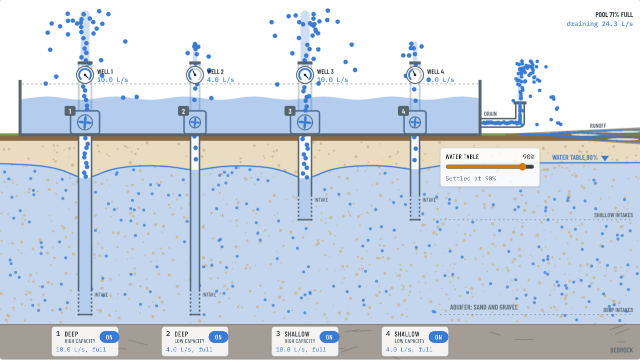
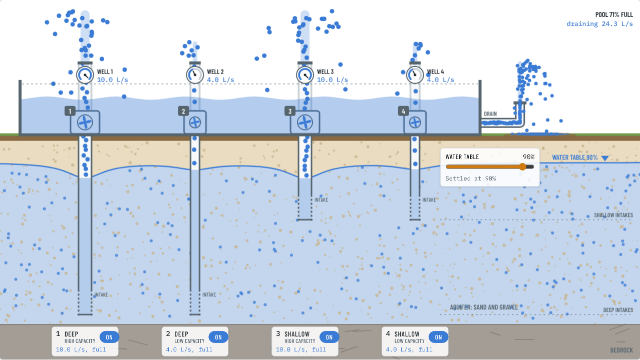
Drain fountain: drop the runoff delta, spray soaks into the ground
Claude-Session: https://claude.ai/code/session_014Cr9Jx2T9FJaknfAa3Mf5t

diff --git a/animations/aquifer-wells/index.html b/animations/aquifer-wells/index.html
@@ -224,7 +224,7 @@ button:focus-visible, input:focus-visible { outline: 2px solid var(--accent); ou
   </div>
   <p class="rotate-hint">Turn your phone sideways to see the full diagram and use its controls.</p>
 
-  <div class="stage" id="stage"><canvas id="cv" width="1280" height="720" aria-label="Cross-section of the ground. A sand and gravel aquifer holds water up to the water table. Four wells go down into it: two deep wells on the left and two shallow wells to their right, each with a low-capacity or high-capacity pump. The pumps sit in a large pool on the ground. Each one sends its water up past a flow meter and out of the top like a fountain, and the pool drains slowly through a pipe in its side that sprays up out of its own fountain onto the ground, where the water spreads out in small channels like a river delta."></canvas>
+  <div class="stage" id="stage"><canvas id="cv" width="1280" height="720" aria-label="Cross-section of the ground. A sand and gravel aquifer holds water up to the water table. Four wells go down into it: two deep wells on the left and two shallow wells to their right, each with a low-capacity or high-capacity pump. The pumps sit in a large pool on the ground. Each one sends its water up past a flow meter and out of the top like a fountain, and the pool drains slowly through a pipe in its side that sprays up out of its own fountain onto the ground, where it soaks in."></canvas>
     <!-- Controls laid over the diagram, positioned in diagram coordinates (1280 x 720) -->
     <div class="hud" id="hud">
       <div class="chip level-chip" style="left: 880px; top: 296px; width: 200px;">
@@ -393,20 +393,6 @@ window.Analog = (() => {
   const DRAIN_END = POOL.x1 + 80;  // the drain pipe runs out this far, then up to its own fountain nozzle
   const DRAIN_NOZZLE = 206;        // the drain fountain sprays from here onto the ground
   const DRAIN_FOUNTAIN = 3.6;      // drain fountain height, px per L/s
-  // Channels the spilled water spreads along across the ground, like a small river delta
-  const DELTA = [
-    [[1040, 269], [1090, 269], [1135, 265], [1205, 262], [1284, 259]],
-    [[1040, 269], [1090, 269], [1135, 265], [1205, 268], [1284, 267]],
-    [[1040, 269], [1090, 269], [1135, 274], [1205, 274], [1284, 276]],
-    [[1040, 269], [1090, 269], [1135, 274], [1205, 280], [1284, 285]],
-  ].map(pts => {
-    const segs = []; let L = 0;
-    for (let k = 1; k < pts.length; k++) {
-      const [x0, y0] = pts[k - 1], [x1, y1] = pts[k], len = Math.hypot(x1 - x0, y1 - y0);
-      segs.push({ x0, y0, dx: (x1 - x0) / len, dy: (y1 - y0) / len, s0: L, len }); L += len;
-    }
-    return { pts, segs, len: L };
-  });
   const NOZZLE_Y = 126;          // fountain nozzles, above the pool rim
   const METER_Y = 150;           // flow meter on each riser
   const G = 520;                 // gravity for the fountain drops, px/s^2
@@ -549,10 +535,11 @@ window.Analog = (() => {
         }
       } else if (d.phase === 'fall') {
         d.vy += G * dt; d.x += d.vx * dt; d.y += d.vy * dt;
-        if (d.vy > 0 && d.y >= GROUND - 1) { d.phase = 'delta'; d.route = DELTA[Math.floor(Math.random() * DELTA.length)]; d.s = Math.max(0, d.x - 1040); if (d.s >= d.route.len) drainDots.splice(k, 1); }
+        if (d.vy > 0 && d.y >= GROUND - 2) { d.phase = 'soak'; d.y = GROUND - 2; d.t = 0; d.vx *= 0.3; }
       } else {
-        d.s += 75 * dt;
-        if (d.s >= d.route.len) drainDots.splice(k, 1);
+        // splashes on the ground and soaks in
+        d.t += dt; d.x += d.vx * dt;
+        if (d.t > 0.6) drainDots.splice(k, 1);
       }
     }
 
@@ -765,18 +752,16 @@ window.Analog = (() => {
 
   function drawPoolBack() {
     const q = Math.min(1, drain / DRAIN_FULL);
-    // wet ground fanning out where the drain water spreads
-    ctx.fillStyle = colors.soil; ctx.globalAlpha = 0.35 + 0.4 * q;
-    ctx.beginPath(); ctx.moveTo(1010, 267.5); ctx.lineTo(W, 255); ctx.lineTo(W, 289); ctx.lineTo(1010, 271); ctx.closePath(); ctx.fill();
-    ctx.globalAlpha = 1;
-    // sand bars between the channels
-    ctx.fillStyle = colors.sand;
-    for (const [x, y, rx] of [[1172, 269.5, 30], [1246, 264, 32], [1246, 279, 32]]) { ctx.beginPath(); ctx.ellipse(x, y, rx, 2.6, 0, 0, Math.PI * 2); ctx.fill(); }
-    // delta channels, wider and brighter the more is draining
+    // wet patch where the spray lands, bigger the more is draining
+    if (drain > 0.05) {
+      ctx.fillStyle = colors.soil; ctx.globalAlpha = 0.5 + 0.4 * q;
+      ctx.beginPath(); ctx.ellipse(DRAIN_END + 40, GROUND + 1, 30 + 60 * q, 3 + 4 * q, 0, 0, Math.PI * 2); ctx.fill();
+      ctx.fillStyle = colors.water; ctx.globalAlpha = 0.45 + 0.35 * q;
+      ctx.beginPath(); ctx.ellipse(DRAIN_END + 40, GROUND - 1, 18 + 50 * q, 1.5 + 2.5 * q, 0, 0, Math.PI * 2); ctx.fill();
+      ctx.globalAlpha = 1;
+    }
     if (drain > 0.05) {
       ctx.strokeStyle = colors.water; ctx.lineCap = 'round'; ctx.lineJoin = 'round';
-      ctx.globalAlpha = 0.5 + 0.4 * q; ctx.lineWidth = 1.2 + 2.6 * q;
-      for (const r of DELTA) { ctx.beginPath(); r.pts.forEach(([x, y], k) => k ? ctx.lineTo(x, y) : ctx.moveTo(x, y)); ctx.stroke(); }
       // the drain fountain's column
       ctx.globalAlpha = 0.25; ctx.lineWidth = 3 + 9 * q;
       ctx.beginPath(); ctx.moveTo(DRAIN_END, DRAIN_NOZZLE); ctx.lineTo(DRAIN_END, DRAIN_NOZZLE - DRAIN_FOUNTAIN * drain * 0.9); ctx.stroke();
@@ -789,12 +774,9 @@ window.Analog = (() => {
     ctx.lineJoin = 'miter';
     ctx.fillStyle = colors['steel-dark']; ctx.fillRect(DRAIN_END - 13, DRAIN_NOZZLE - 3, 26, 6);
     for (const d of drainDots) {
-      if (d.phase === 'delta') {
-        let g = d.route.segs[d.route.segs.length - 1];
-        for (const sg of d.route.segs) if (d.s <= sg.s0 + sg.len) { g = sg; break; }
-        const t = d.s - g.s0;
-        ctx.globalAlpha = Math.max(0, 1 - d.s / d.route.len);
-        dot(g.x0 + g.dx * t, g.y0 + g.dy * t, colors.water, 2.6);
+      if (d.phase === 'soak') {
+        ctx.globalAlpha = Math.max(0, 1 - d.t / 0.6);
+        dot(d.x, d.y, colors.water, 2.8);
         ctx.globalAlpha = 1;
       } else dot(d.x, d.y, colors.water, 3.5);
     }
@@ -821,7 +803,6 @@ window.Analog = (() => {
     ctx.lineJoin = 'miter';
     ctx.fillStyle = colors.muted; ctx.font = '600 12px "Barlow Condensed", sans-serif'; ctx.textAlign = 'left';
     ctx.fillText('DRAIN', x1 + 8, DRAIN_Y - 14);
-    ctx.fillText('RUNOFF', 1180, GROUND - 14);
     ctx.fillStyle = colors.fg; ctx.font = '600 14px "Barlow Condensed", sans-serif'; ctx.textAlign = 'right';
     ctx.fillText('POOL ' + Math.round(pool * 100) + '% FULL', W - 14, 34);
     ctx.fillStyle = colors.water; ctx.font = '500 13px "IBM Plex Mono", monospace';

diff --git a/animations/aquifer-wells/src/index.html b/animations/aquifer-wells/src/index.html
@@ -73,7 +73,7 @@
   </div>
   <p class="rotate-hint">Turn your phone sideways to see the full diagram and use its controls.</p>
 
-  <div class="stage" id="stage"><canvas id="cv" width="1280" height="720" aria-label="Cross-section of the ground. A sand and gravel aquifer holds water up to the water table. Four wells go down into it: two deep wells on the left and two shallow wells to their right, each with a low-capacity or high-capacity pump. The pumps sit in a large pool on the ground. Each one sends its water up past a flow meter and out of the top like a fountain, and the pool drains slowly through a pipe in its side that sprays up out of its own fountain onto the ground, where the water spreads out in small channels like a river delta."></canvas>
+  <div class="stage" id="stage"><canvas id="cv" width="1280" height="720" aria-label="Cross-section of the ground. A sand and gravel aquifer holds water up to the water table. Four wells go down into it: two deep wells on the left and two shallow wells to their right, each with a low-capacity or high-capacity pump. The pumps sit in a large pool on the ground. Each one sends its water up past a flow meter and out of the top like a fountain, and the pool drains slowly through a pipe in its side that sprays up out of its own fountain onto the ground, where it soaks in."></canvas>
     <!-- Controls laid over the diagram, positioned in diagram coordinates (1280 x 720) -->
     <div class="hud" id="hud">
       <div class="chip level-chip" style="left: 880px; top: 296px; width: 200px;">
@@ -136,20 +136,6 @@
   const DRAIN_END = POOL.x1 + 80;  // the drain pipe runs out this far, then up to its own fountain nozzle
   const DRAIN_NOZZLE = 206;        // the drain fountain sprays from here onto the ground
   const DRAIN_FOUNTAIN = 3.6;      // drain fountain height, px per L/s
-  // Channels the spilled water spreads along across the ground, like a small river delta
-  const DELTA = [
-    [[1040, 269], [1090, 269], [1135, 265], [1205, 262], [1284, 259]],
-    [[1040, 269], [1090, 269], [1135, 265], [1205, 268], [1284, 267]],
-    [[1040, 269], [1090, 269], [1135, 274], [1205, 274], [1284, 276]],
-    [[1040, 269], [1090, 269], [1135, 274], [1205, 280], [1284, 285]],
-  ].map(pts => {
-    const segs = []; let L = 0;
-    for (let k = 1; k < pts.length; k++) {
-      const [x0, y0] = pts[k - 1], [x1, y1] = pts[k], len = Math.hypot(x1 - x0, y1 - y0);
-      segs.push({ x0, y0, dx: (x1 - x0) / len, dy: (y1 - y0) / len, s0: L, len }); L += len;
-    }
-    return { pts, segs, len: L };
-  });
   const NOZZLE_Y = 126;          // fountain nozzles, above the pool rim
   const METER_Y = 150;           // flow meter on each riser
   const G = 520;                 // gravity for the fountain drops, px/s^2
@@ -292,10 +278,11 @@
         }
       } else if (d.phase === 'fall') {
         d.vy += G * dt; d.x += d.vx * dt; d.y += d.vy * dt;
-        if (d.vy > 0 && d.y >= GROUND - 1) { d.phase = 'delta'; d.route = DELTA[Math.floor(Math.random() * DELTA.length)]; d.s = Math.max(0, d.x - 1040); if (d.s >= d.route.len) drainDots.splice(k, 1); }
+        if (d.vy > 0 && d.y >= GROUND - 2) { d.phase = 'soak'; d.y = GROUND - 2; d.t = 0; d.vx *= 0.3; }
       } else {
-        d.s += 75 * dt;
-        if (d.s >= d.route.len) drainDots.splice(k, 1);
+        // splashes on the ground and soaks in
+        d.t += dt; d.x += d.vx * dt;
+        if (d.t > 0.6) drainDots.splice(k, 1);
       }
     }
 
@@ -508,18 +495,16 @@
 
   function drawPoolBack() {
     const q = Math.min(1, drain / DRAIN_FULL);
-    // wet ground fanning out where the drain water spreads
-    ctx.fillStyle = colors.soil; ctx.globalAlpha = 0.35 + 0.4 * q;
-    ctx.beginPath(); ctx.moveTo(1010, 267.5); ctx.lineTo(W, 255); ctx.lineTo(W, 289); ctx.lineTo(1010, 271); ctx.closePath(); ctx.fill();
-    ctx.globalAlpha = 1;
-    // sand bars between the channels
-    ctx.fillStyle = colors.sand;
-    for (const [x, y, rx] of [[1172, 269.5, 30], [1246, 264, 32], [1246, 279, 32]]) { ctx.beginPath(); ctx.ellipse(x, y, rx, 2.6, 0, 0, Math.PI * 2); ctx.fill(); }
-    // delta channels, wider and brighter the more is draining
+    // wet patch where the spray lands, bigger the more is draining
+    if (drain > 0.05) {
+      ctx.fillStyle = colors.soil; ctx.globalAlpha = 0.5 + 0.4 * q;
+      ctx.beginPath(); ctx.ellipse(DRAIN_END + 40, GROUND + 1, 30 + 60 * q, 3 + 4 * q, 0, 0, Math.PI * 2); ctx.fill();
+      ctx.fillStyle = colors.water; ctx.globalAlpha = 0.45 + 0.35 * q;
+      ctx.beginPath(); ctx.ellipse(DRAIN_END + 40, GROUND - 1, 18 + 50 * q, 1.5 + 2.5 * q, 0, 0, Math.PI * 2); ctx.fill();
+      ctx.globalAlpha = 1;
+    }
     if (drain > 0.05) {
       ctx.strokeStyle = colors.water; ctx.lineCap = 'round'; ctx.lineJoin = 'round';
-      ctx.globalAlpha = 0.5 + 0.4 * q; ctx.lineWidth = 1.2 + 2.6 * q;
-      for (const r of DELTA) { ctx.beginPath(); r.pts.forEach(([x, y], k) => k ? ctx.lineTo(x, y) : ctx.moveTo(x, y)); ctx.stroke(); }
       // the drain fountain's column
       ctx.globalAlpha = 0.25; ctx.lineWidth = 3 + 9 * q;
       ctx.beginPath(); ctx.moveTo(DRAIN_END, DRAIN_NOZZLE); ctx.lineTo(DRAIN_END, DRAIN_NOZZLE - DRAIN_FOUNTAIN * drain * 0.9); ctx.stroke();
@@ -532,12 +517,9 @@
     ctx.lineJoin = 'miter';
     ctx.fillStyle = colors['steel-dark']; ctx.fillRect(DRAIN_END - 13, DRAIN_NOZZLE - 3, 26, 6);
     for (const d of drainDots) {
-      if (d.phase === 'delta') {
-        let g = d.route.segs[d.route.segs.length - 1];
-        for (const sg of d.route.segs) if (d.s <= sg.s0 + sg.len) { g = sg; break; }
-        const t = d.s - g.s0;
-        ctx.globalAlpha = Math.max(0, 1 - d.s / d.route.len);
-        dot(g.x0 + g.dx * t, g.y0 + g.dy * t, colors.water, 2.6);
+      if (d.phase === 'soak') {
+        ctx.globalAlpha = Math.max(0, 1 - d.t / 0.6);
+        dot(d.x, d.y, colors.water, 2.8);
         ctx.globalAlpha = 1;
       } else dot(d.x, d.y, colors.water, 3.5);
     }
@@ -564,7 +546,6 @@
     ctx.lineJoin = 'miter';
     ctx.fillStyle = colors.muted; ctx.font = '600 12px "Barlow Condensed", sans-serif'; ctx.textAlign = 'left';
     ctx.fillText('DRAIN', x1 + 8, DRAIN_Y - 14);
-    ctx.fillText('RUNOFF', 1180, GROUND - 14);
     ctx.fillStyle = colors.fg; ctx.font = '600 14px "Barlow Condensed", sans-serif'; ctx.textAlign = 'right';
     ctx.fillText('POOL ' + Math.round(pool * 100) + '% FULL', W - 14, 34);
     ctx.fillStyle = colors.water; ctx.font = '500 13px "IBM Plex Mono", monospace';

diff --git a/README.md b/README.md
@@ -60,4 +60,4 @@ Four wells draw from one sand and gravel aquifer above bedrock. The pumps stand 
 - Each well has a 50px intake screen. A pump runs at full rate while the water near its well is above the screen, slows as the water drops past the screen, and runs dry below it.
 - A running pump pulls the water table down around its well, 3px per L/s, so a high-capacity pump starts losing flow at a higher water table than a low-capacity one at the same depth.
 - Flow shows as dots rising in each pipe (2.4 dots/s per L/s at a constant speed, so tighter spacing means more flow), a flow meter on each riser, and the fountain's height (10.5px per L/s) and width.
-- The pool drains through a pipe in its side wall that turns up into its own fountain (for show, not driven by the pool's pressure: its height follows the drain rate). The water sprays onto the ground and spreads out in channels like a small river delta, wider and brighter the more is draining. It holds 400 L and drains at 34 L/s × how full it is, so it settles at (total pumped ÷ 34): about 82% with all four pumps at full rate.
+- The pool drains through a pipe in its side wall that turns up into its own fountain (for show, not driven by the pool's pressure: its height follows the drain rate). The spray lands on the ground and soaks in; the wet patch grows with the drain rate. It holds 400 L and drains at 34 L/s × how full it is, so it settles at (total pumped ÷ 34): about 82% with all four pumps at full rate.
